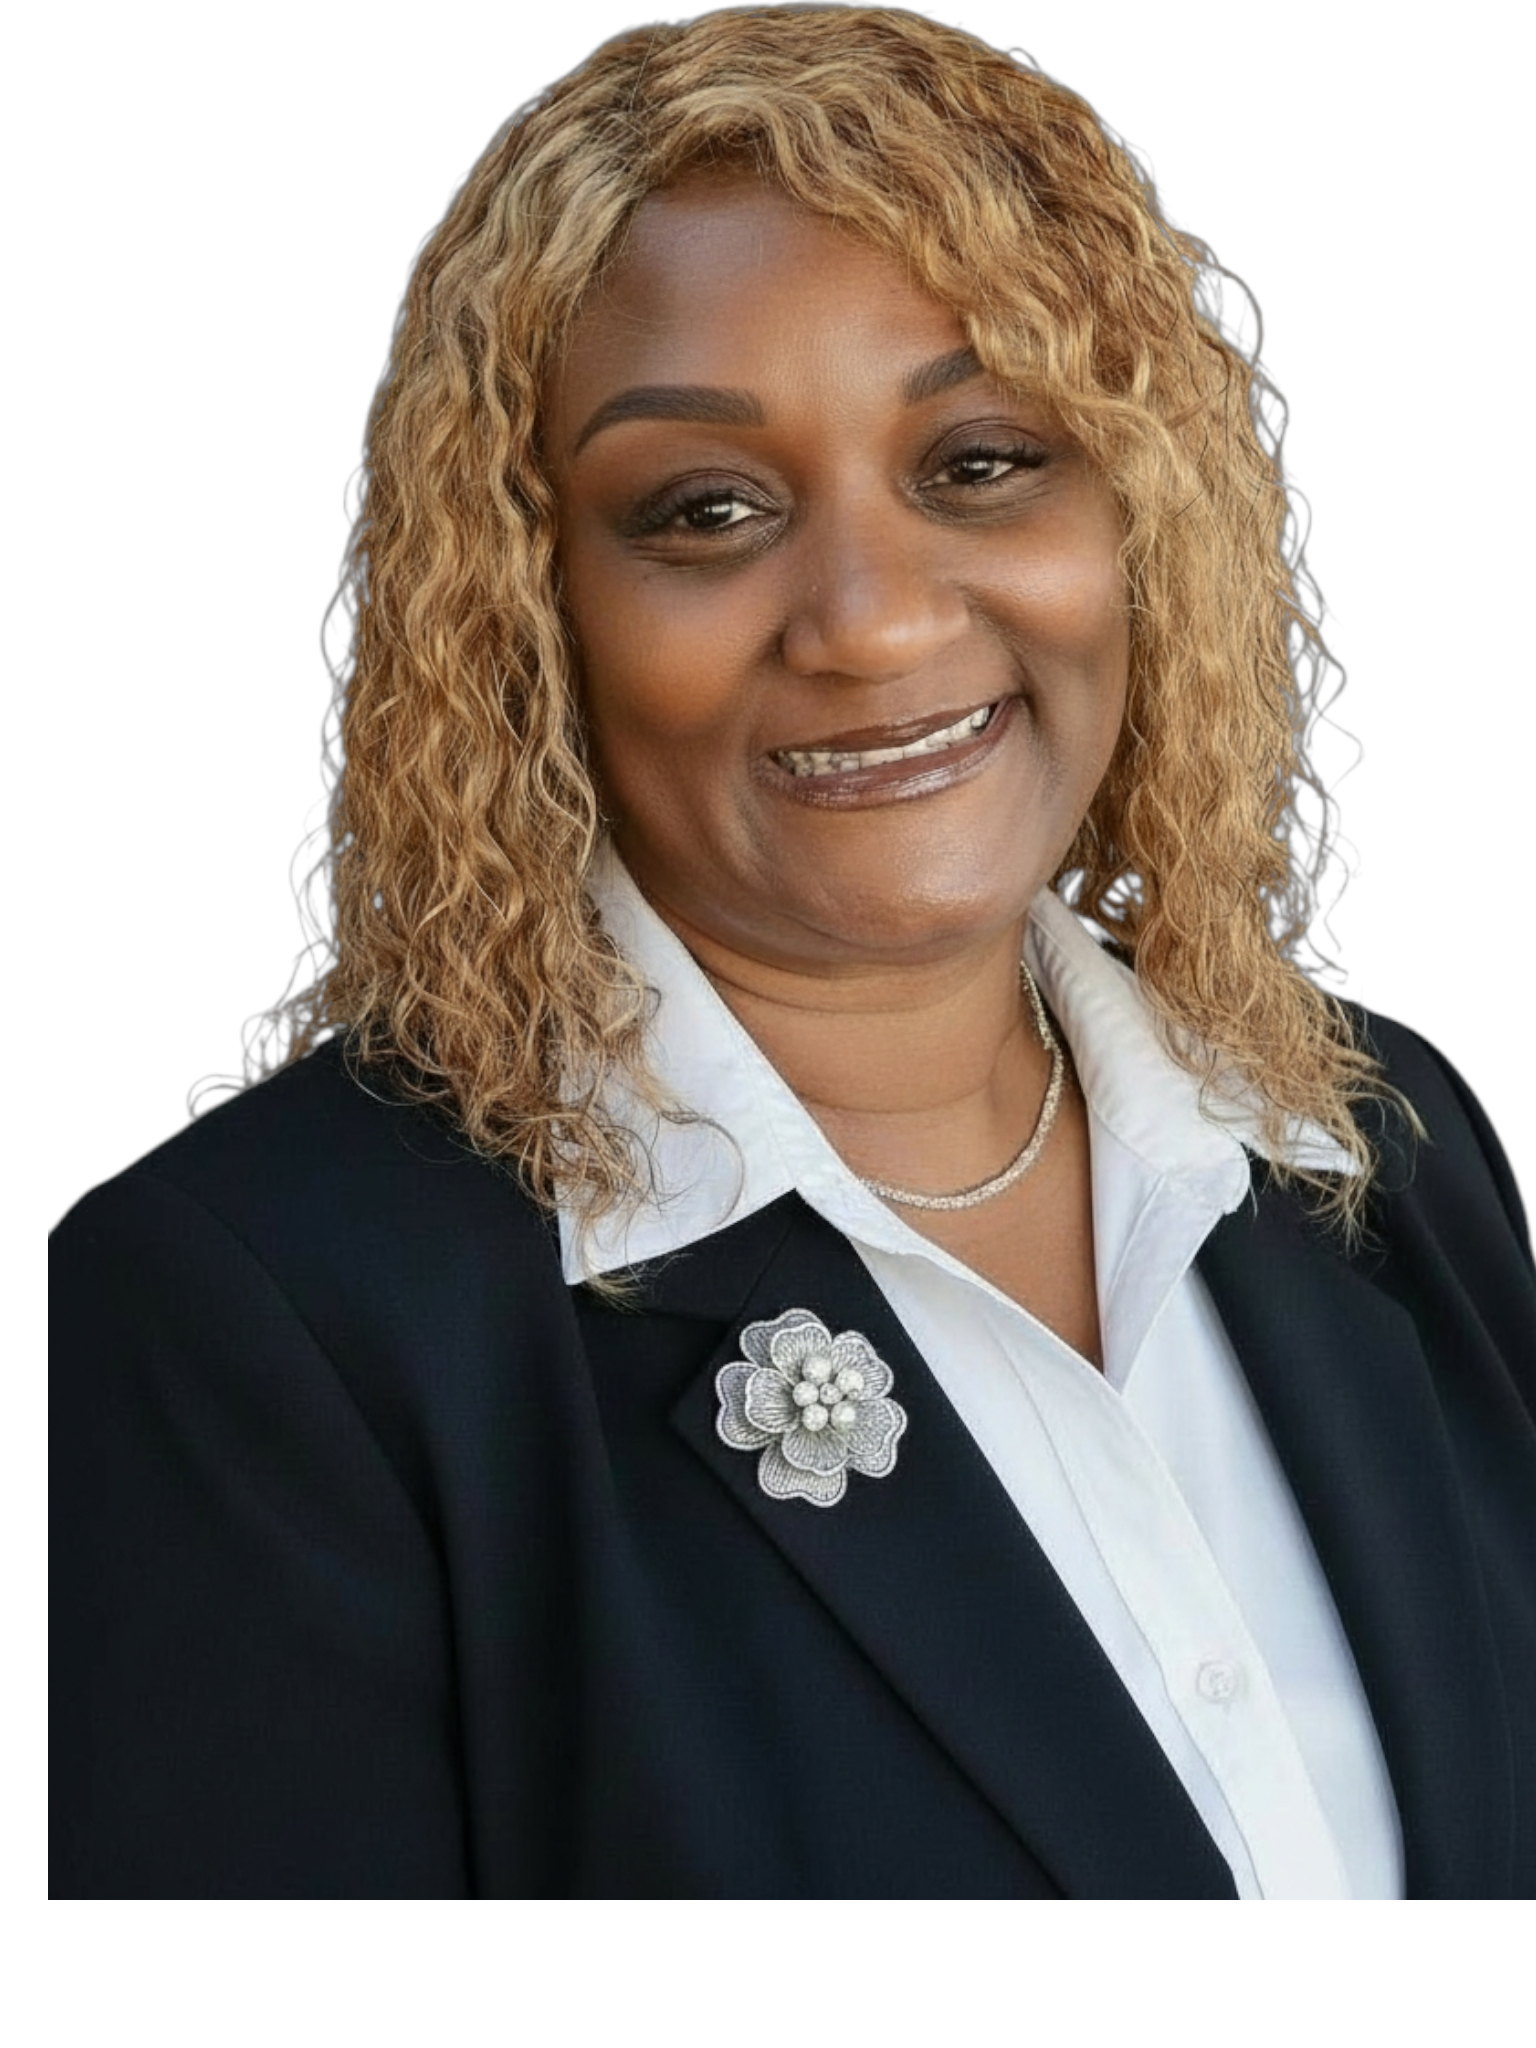
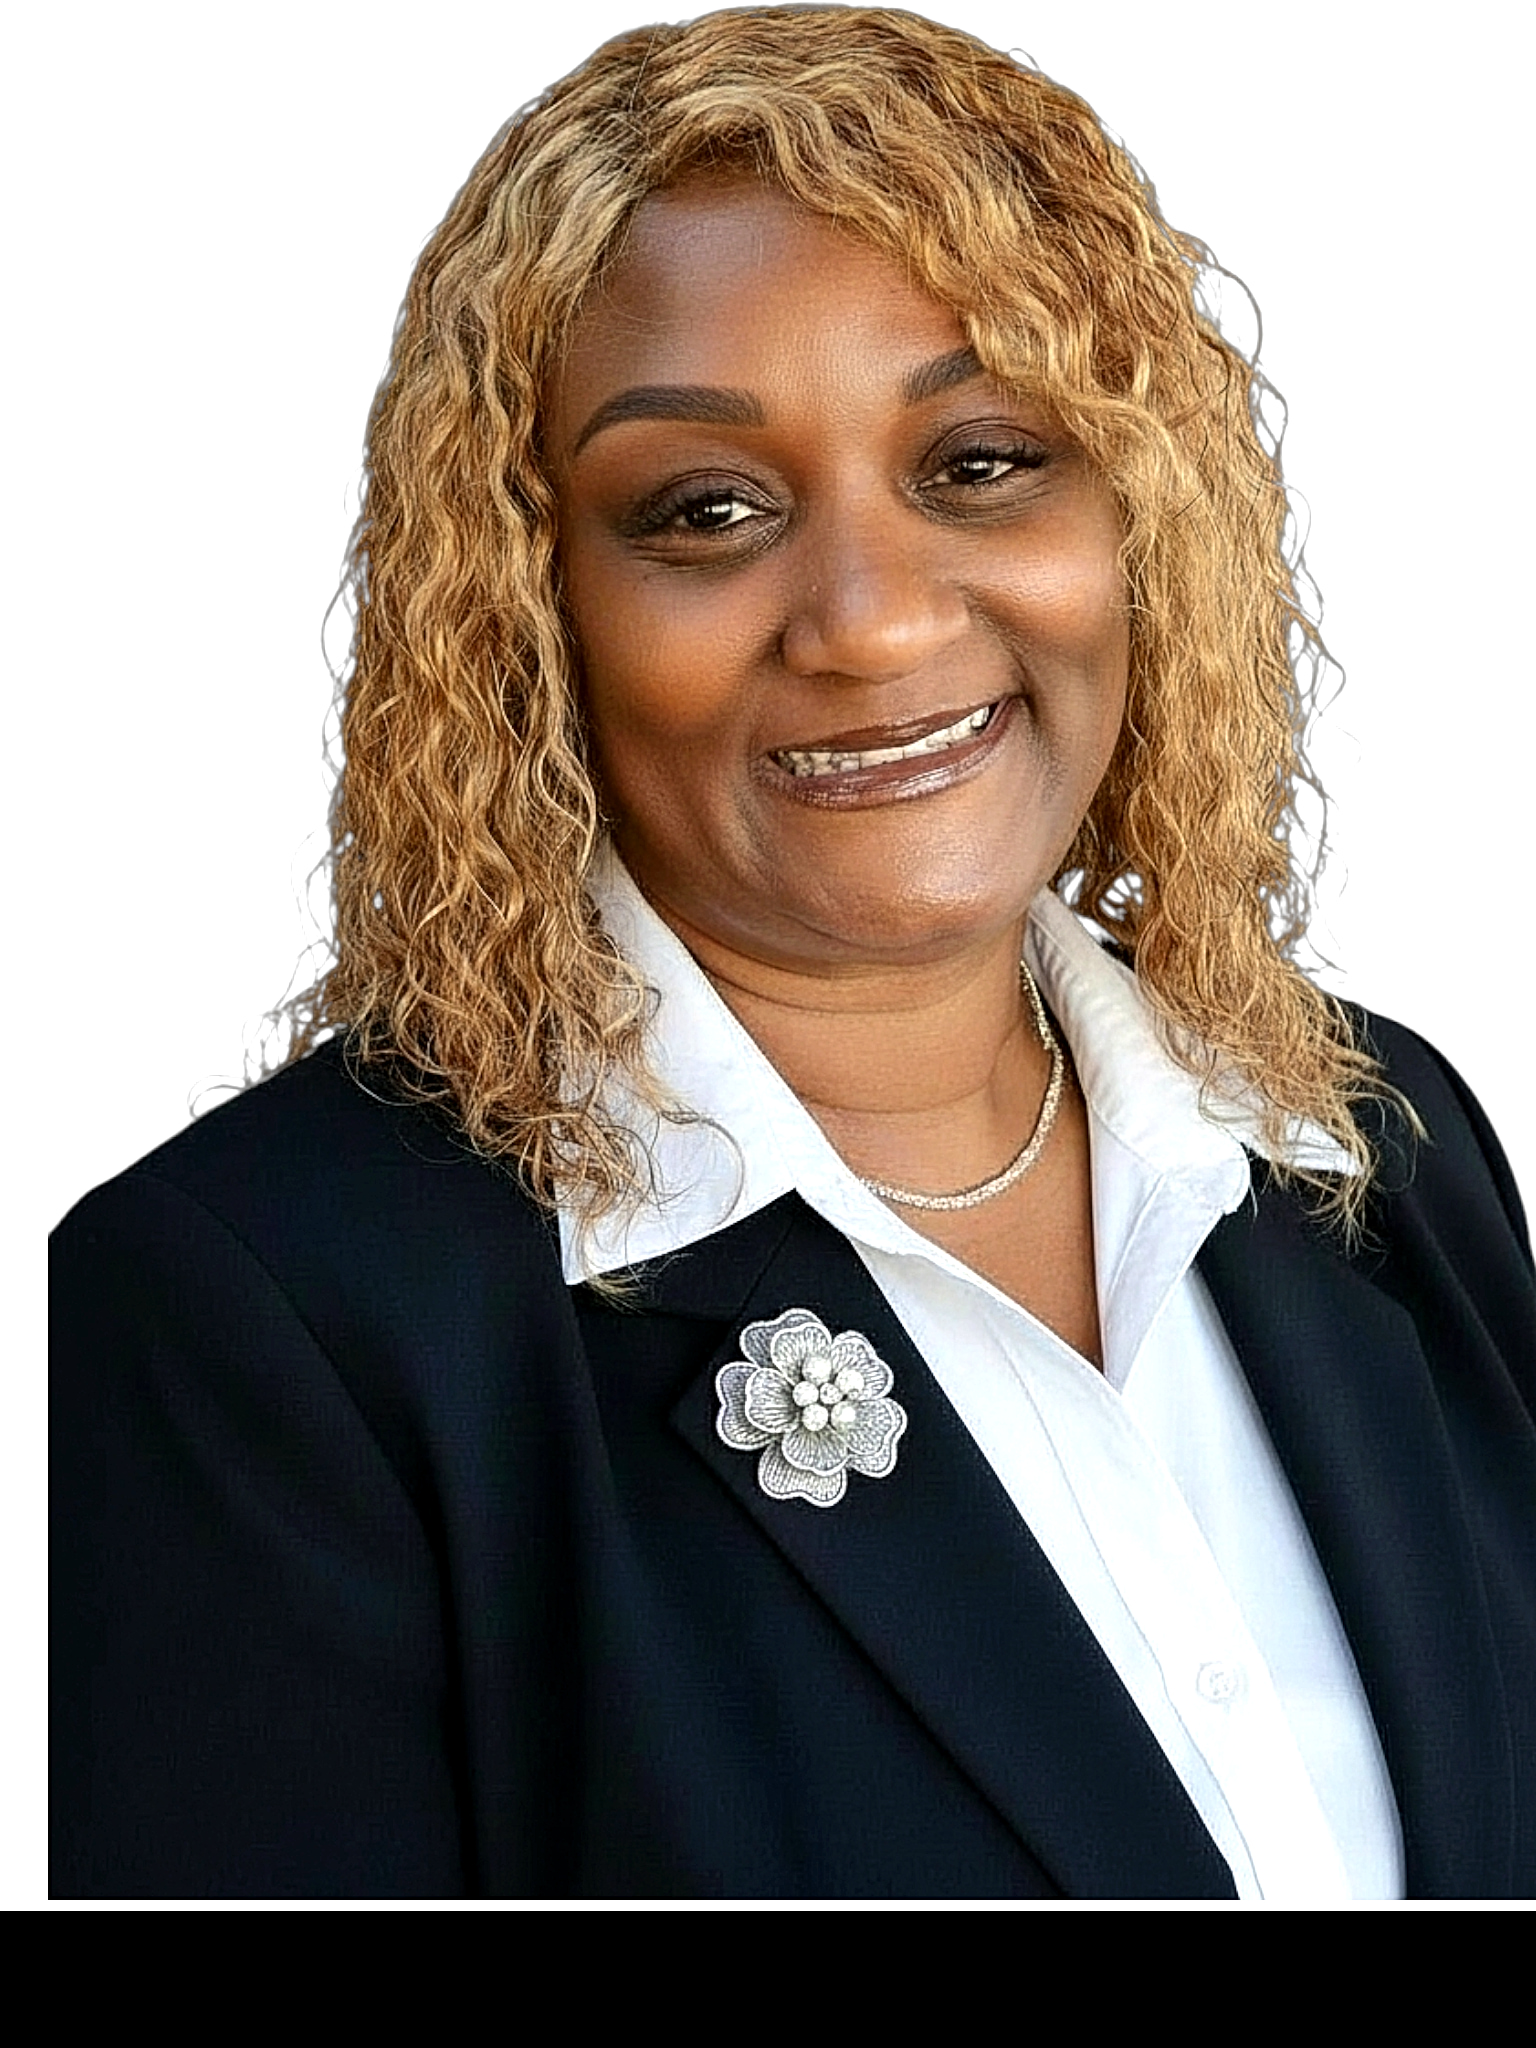
Remove holistic support and three-block sections, enhance staff photos, update testimonial images
- Removed 'We Support Your Entire Journey' section from homepage
- Removed 'Three Pathways to Success' section from homepage
- Enhanced all 9 staff photos to excellent quality (440K-1.3M, 2048x2048, 300 DPI)
- Applied professional portrait enhancement: increased sharpening, color saturation, contrast
- Updated testimonial images to use high-quality program photos from repository
  - Marcus J. (CNA): Now using cna-hd.jpg
  - Tasha W. (HVAC): Now using hvac-hd.jpg
  - David R. (CDL): Now using cdl-hd.jpg
- All images now from repository, no generic placeholders

Staff Photo Quality:
- Before: 413K-2.5M (original)
- After: 440K-1.3M (enhanced, 2048x2048, 98% quality, 300 DPI)

Changed region(s): [[0.0, 0.0, 1.0, 1.0], [0.4062, 0.2188, 0.5, 0.3438]]

diff --git a/app/page.tsx b/app/page.tsx
@@ -4,7 +4,6 @@ import { ArrowRight, ChevronRight } from "lucide-react";
 import HeroSlideshow from "@/components/HeroSlideshow";
 import SocialMediaHighlight from "@/components/SocialMediaHighlight";
 import SideHeroBanner from "@/components/SideHeroBanner";
-import ThreeBlockHero from "@/components/ThreeBlockHero";
 
 export const metadata = {
   title: "Elevate for Humanity | Workforce Development & Career Training",
@@ -107,118 +106,8 @@ export default function HomePage() {
         </div>
       </section>
 
-      {/* HOLISTIC SUPPORT HIGHLIGHT */}
-      <section className="py-20 bg-gradient-to-br from-teal-600 via-teal-700 to-blue-800 text-white relative overflow-hidden">
-        {/* Background Pattern */}
-        <div className="absolute inset-0 opacity-10">
-          <div className="absolute inset-0" style={{ backgroundImage: 'radial-gradient(circle at 2px 2px, white 1px, transparent 0)', backgroundSize: '40px 40px' }}></div>
-        </div>
-        
-        <div className="relative mx-auto max-w-7xl px-6">
-          <div className="text-center mb-12">
-            <h2 className="text-4xl md:text-5xl font-bold mb-6 leading-tight">
-              We Don't Just Train You—We Support Your Entire Journey
-            </h2>
-            <p className="text-xl md:text-2xl text-teal-100 max-w-4xl mx-auto leading-relaxed">
-              Our holistic approach addresses every barrier to your success with dedicated support services that go far beyond the classroom.
-            </p>
-          </div>
-
-          <div className="grid md:grid-cols-2 lg:grid-cols-4 gap-6 mt-12">
-            {/* Housing Support */}
-            <div className="bg-white/10 backdrop-blur-sm rounded-2xl overflow-hidden border border-white/20 hover:bg-white/20 transition-all group">
-              <div className="relative h-48">
-                <Image
-                  src="/images/leslie-wafford.jpg"
-                  alt="Leslie Wafford - Director of Housing & Supportive Services"
-                  fill
-                  className="object-cover group-hover:scale-105 transition-transform duration-300"
-                />
-                <div className="absolute inset-0 bg-gradient-to-t from-teal-900/90 to-transparent"></div>
-              </div>
-              <div className="p-6">
-                <h3 className="text-xl font-bold mb-3">Housing Assistance</h3>
-                <p className="text-teal-100 leading-relaxed text-sm">
-                  Stable housing is essential. Our Director of Housing & Supportive Services helps you secure safe, affordable housing during training.
-                </p>
-              </div>
-            </div>
-
-            {/* Mental Health */}
-            <div className="bg-white/10 backdrop-blur-sm rounded-2xl overflow-hidden border border-white/20 hover:bg-white/20 transition-all group">
-              <div className="relative h-48">
-                <Image
-                  src="/images/alina-smith.jpg"
-                  alt="Alina Smith - Director of Behavioral Health Services"
-                  fill
-                  className="object-cover group-hover:scale-105 transition-transform duration-300"
-                />
-                <div className="absolute inset-0 bg-gradient-to-t from-teal-900/90 to-transparent"></div>
-              </div>
-              <div className="p-6">
-                <h3 className="text-xl font-bold mb-3">Mental Health Services</h3>
-                <p className="text-teal-100 leading-relaxed text-sm">
-                  Our Director of Behavioral Health Services (PMHNP) provides mental wellness support because we see the whole person.
-                </p>
-              </div>
-            </div>
-
-            {/* Life Coaching */}
-            <div className="bg-white/10 backdrop-blur-sm rounded-2xl overflow-hidden border border-white/20 hover:bg-white/20 transition-all group">
-              <div className="relative h-48">
-                <Image
-                  src="/images/clystjah-woodley.jpg"
-                  alt="Clystjah Woodley - Lead Life Coach"
-                  fill
-                  className="object-cover group-hover:scale-105 transition-transform duration-300"
-                />
-                <div className="absolute inset-0 bg-gradient-to-t from-teal-900/90 to-transparent"></div>
-              </div>
-              <div className="p-6">
-                <h3 className="text-xl font-bold mb-3">Life Coaching</h3>
-                <p className="text-teal-100 leading-relaxed text-sm">
-                  Our Lead Life Coach helps you build confidence, set goals, and develop the soft skills employers value.
-                </p>
-              </div>
-            </div>
-
-            {/* Direct Employer Connections */}
-            <div className="bg-white/10 backdrop-blur-sm rounded-2xl overflow-hidden border border-white/20 hover:bg-white/20 transition-all group">
-              <div className="relative h-48">
-                <Image
-                  src="/images/ameco-martin.jpg"
-                  alt="Ameco Martin - Director of Staffing"
-                  fill
-                  className="object-cover group-hover:scale-105 transition-transform duration-300"
-                />
-                <div className="absolute inset-0 bg-gradient-to-t from-teal-900/90 to-transparent"></div>
-              </div>
-              <div className="p-6">
-                <h3 className="text-xl font-bold mb-3">Employer Connections</h3>
-                <p className="text-teal-100 leading-relaxed text-sm">
-                  Our Director of Staffing connects you directly with hiring employers—many students have jobs before graduation.
-                </p>
-              </div>
-            </div>
-          </div>
-
-          <div className="text-center mt-12">
-            <Link
-              href="/team"
-              className="inline-flex items-center justify-center px-8 py-4 bg-white text-teal-700 font-bold rounded-lg hover:bg-teal-50 transition-all shadow-xl hover:shadow-2xl hover:scale-105 text-lg"
-            >
-              Meet Our Support Team
-              <ChevronRight size={24} />
-            </Link>
-          </div>
-        </div>
-      </section>
-
       {/* SIDE HERO BANNER */}
       <SideHeroBanner />
-
-      {/* THREE BLOCK HERO */}
-      <ThreeBlockHero />
 
       {/* SINGLE FEATURE - HEALTHCARE */}
       <section className="py-16 bg-slate-50">
@@ -543,7 +432,7 @@ export default function HomePage() {
           <div className="grid lg:grid-cols-2 gap-12 items-center mb-16">
             <div className="relative h-[500px] rounded-xl overflow-hidden shadow-2xl">
               <Image
-                src="/images/students-new/student-17.jpg"
+                src="/media/programs/cna-hd.jpg"
                 alt="Marcus J. - CNA Graduate"
                 fill
                 className="object-cover"
@@ -590,7 +479,7 @@ export default function HomePage() {
             </div>
             <div className="relative h-[500px] rounded-xl overflow-hidden shadow-2xl">
               <Image
-                src="/images/students-new/student-13.jpg"
+                src="/media/programs/hvac-hd.jpg"
                 alt="Tasha W. - HVAC Graduate"
                 fill
                 className="object-cover"
@@ -603,7 +492,7 @@ export default function HomePage() {
           <div className="grid lg:grid-cols-2 gap-12 items-center mb-12">
             <div className="relative h-[500px] rounded-xl overflow-hidden shadow-2xl">
               <Image
-                src="/images/students-new/student-11.jpg"
+                src="/media/programs/cdl-hd.jpg"
                 alt="David R. - CDL Graduate"
                 fill
                 className="object-cover"
@@ -823,20 +712,20 @@ const stories = [
     program: "CNA Training",
     quote: "I went from unemployed to working at a hospital in 6 weeks.",
     outcome: "Now earning $18/hr at Community Hospital",
-    image: "/images/students-new/student-17.jpg",
+    image: "/media/programs/cna-hd.jpg",
   },
   {
     name: "Tasha W.",
     program: "HVAC Technician",
     quote: "Free training, real skills, and a job waiting when I finished.",
     outcome: "Hired by local HVAC company at $22/hr",
-    image: "/images/students-new/student-13.jpg",
+    image: "/media/programs/hvac-hd.jpg",
   },
   {
     name: "David R.",
     program: "CDL Training",
     quote: "I got my CDL without paying a dime. Best decision I made.",
     outcome: "Driving for national carrier at $60K/year",
-    image: "/images/students-new/student-11.jpg",
+    image: "/media/programs/cdl-hd.jpg",
   },
 ];
